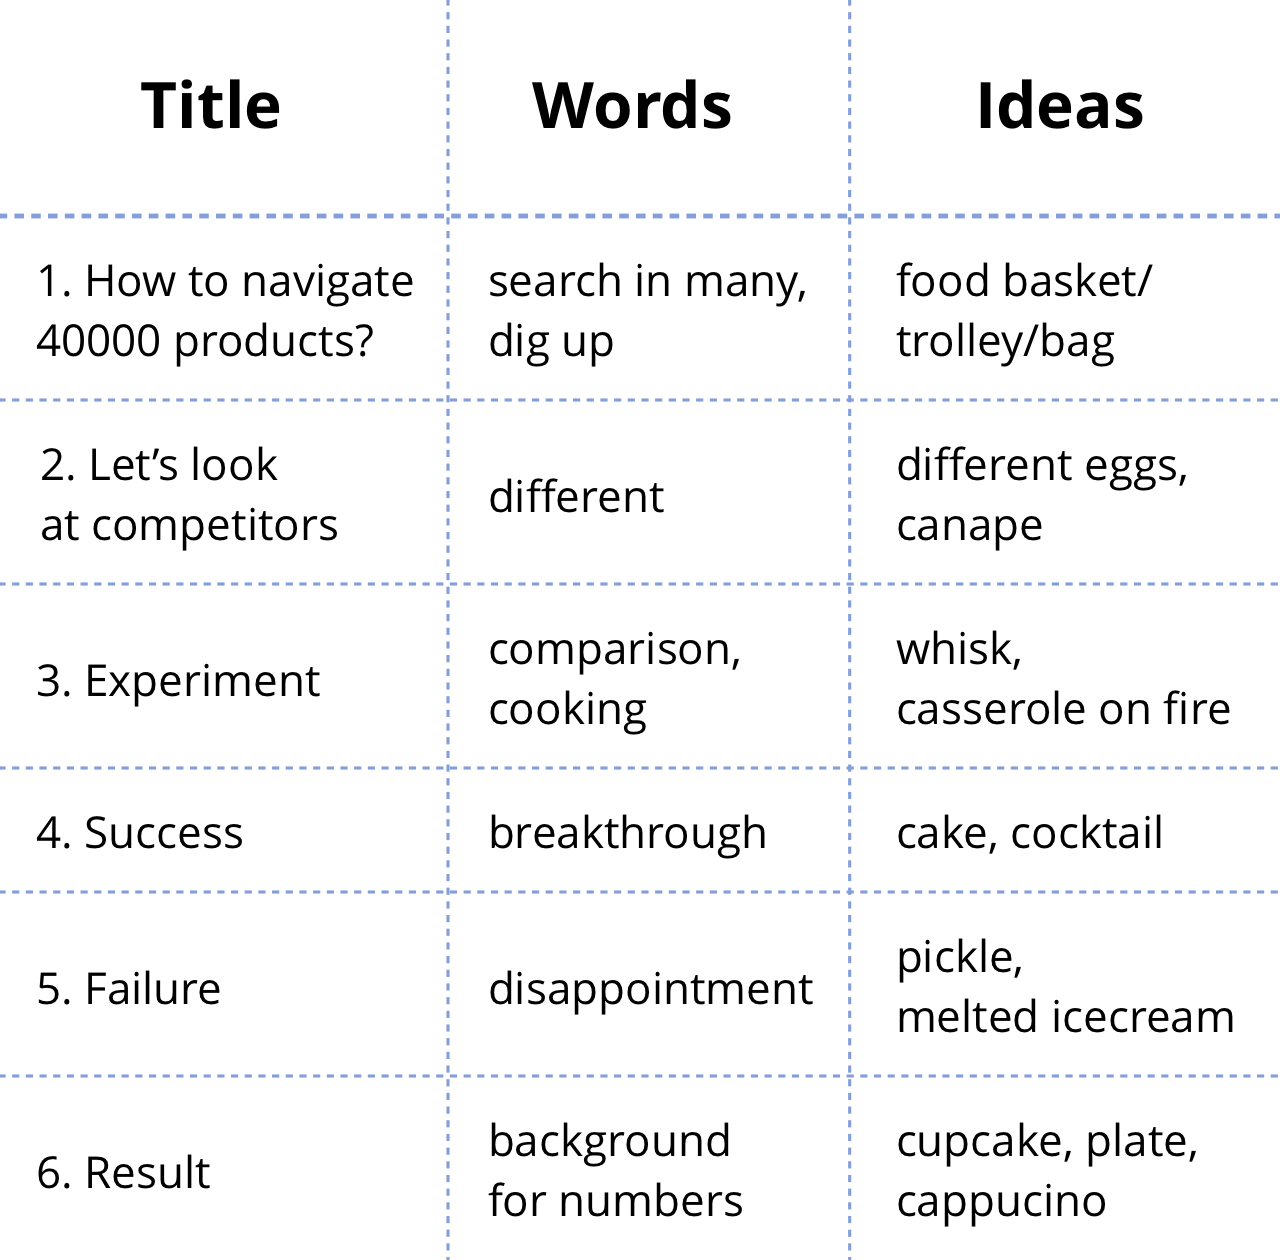
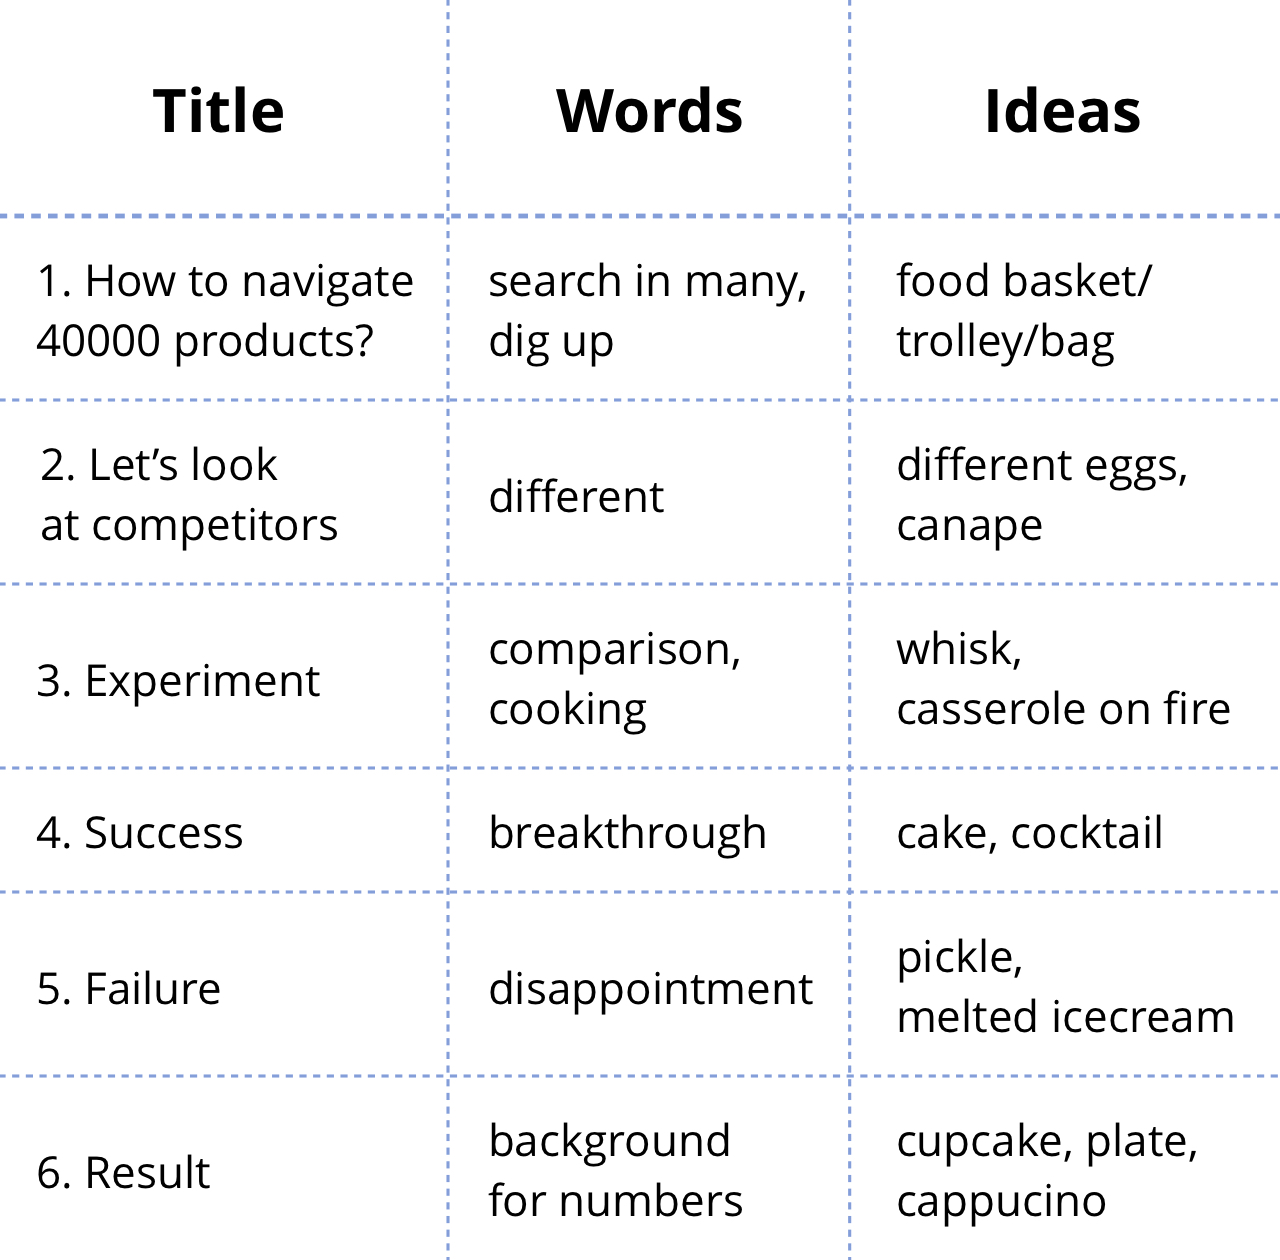
Updated tables headers

Changed region(s): [[0.4062, 0.0619, 0.5938, 0.1238], [0.75, 0.0619, 0.9062, 0.1238], [0.0938, 0.0619, 0.2188, 0.1238]]

diff --git a/illustrations.html b/illustrations.html
@@ -71,7 +71,7 @@
                 Ideation began with 2 words: success and failure. I then wrote down a list of words
                 I wanted to express and came up with a few ideas for each word.
             </div>
-            <div class="wrapper-shadow" style="max-width: 930px; margin-bottom: 20px;">
+            <div class="wrapper-shadow" style="max-width: 930px; margin-bottom: 30px;">
                 <div class="small-and-extrasmall">
                     <img class="img" style="width: 100%; max-width: 930px;" alt="" src="illustrations/words_table_sm.jpg" />
                 </div>
